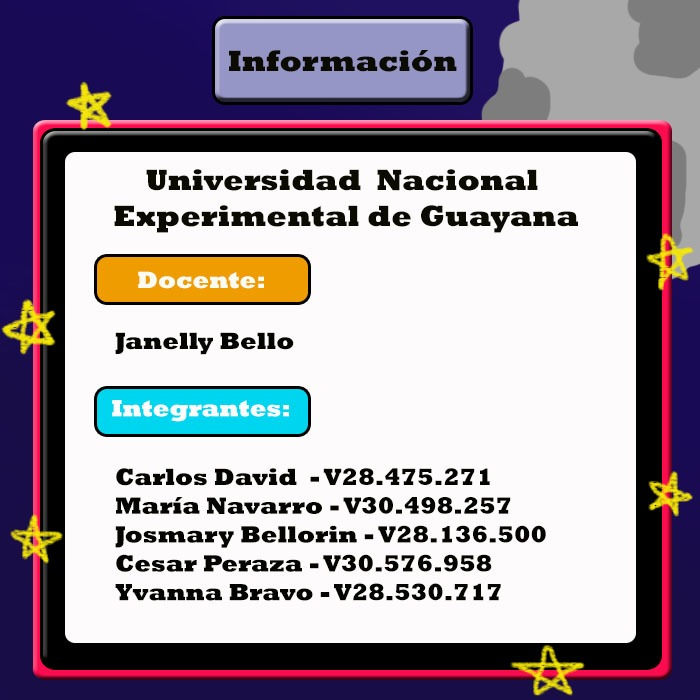
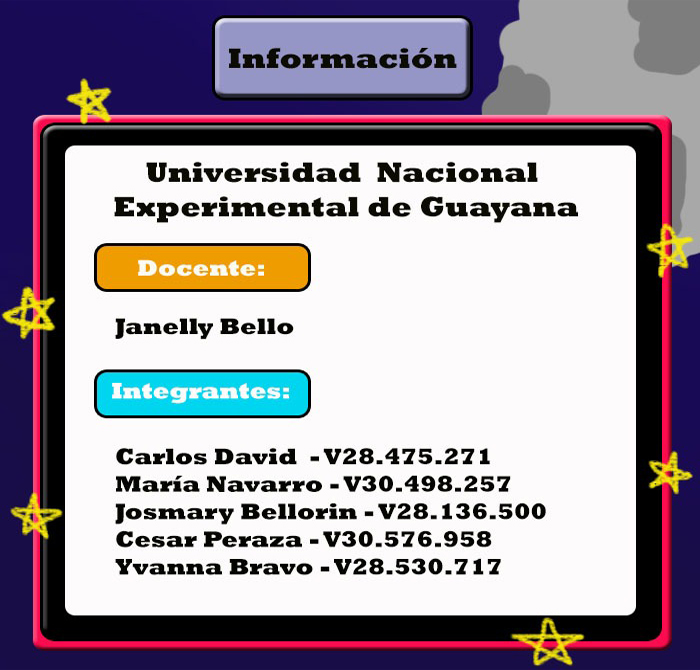
Edicion

diff --git a/src/snake2/Front/PantallaCreditos.java b/src/snake2/Front/PantallaCreditos.java
@@ -25,7 +25,7 @@ public class PantallaCreditos extends Pantalla{
     }
 
     public void iniciarPaneles(){
-        fondoImagen.setBounds(0, 0, ancho, alto);
+        fondoImagen.setBounds(0, -20, ancho, alto);
         fondo.setBounds(0, 0, ancho, alto);
         fondo.add(fondoImagen);
         fondo.setLayout(null);
